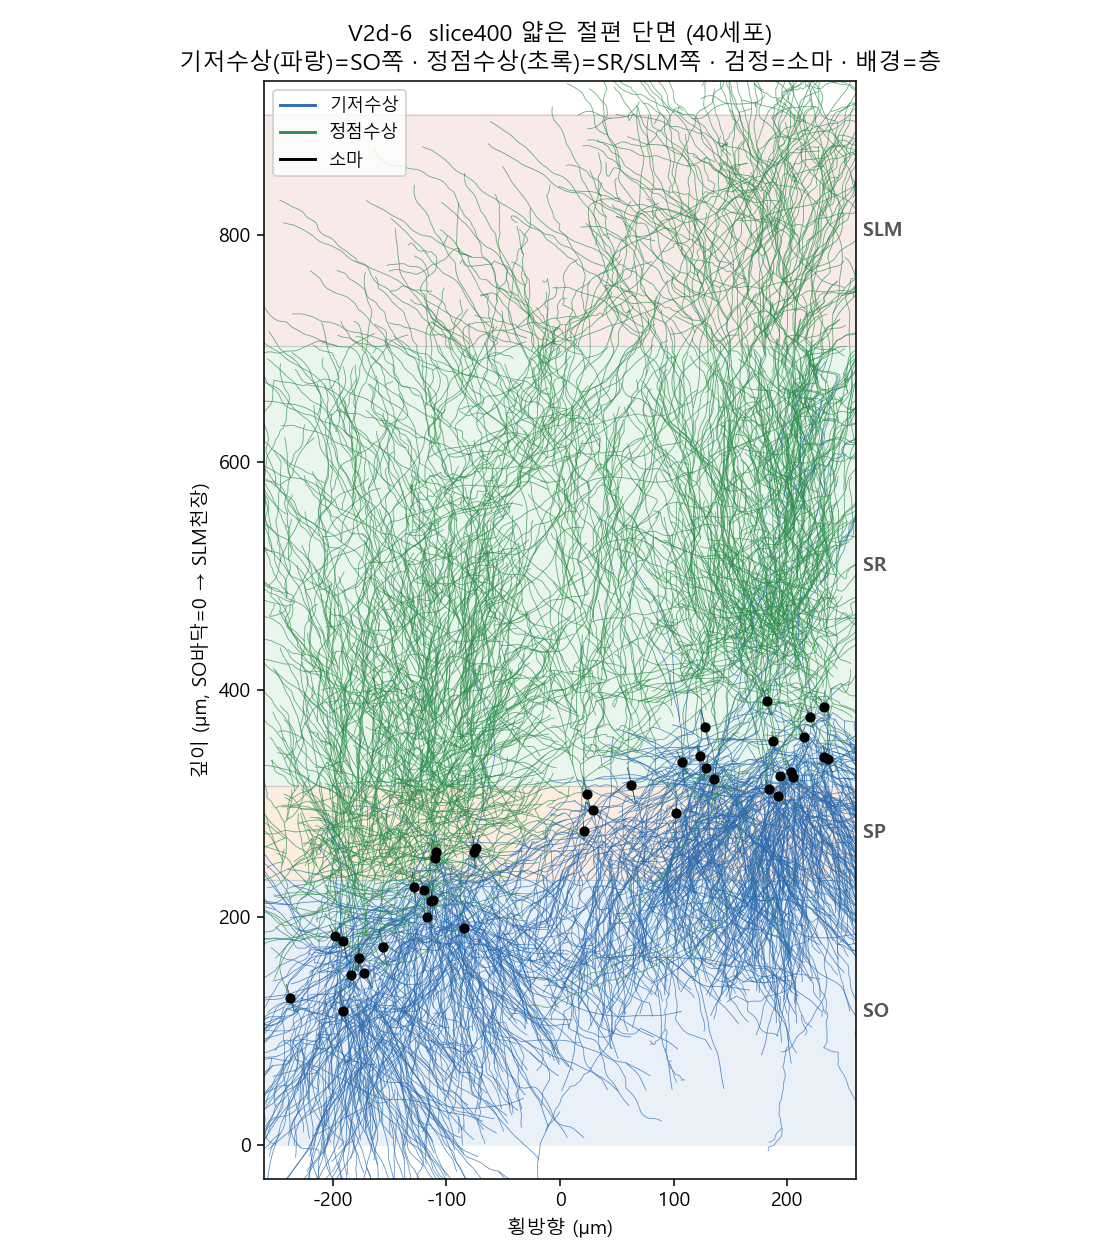
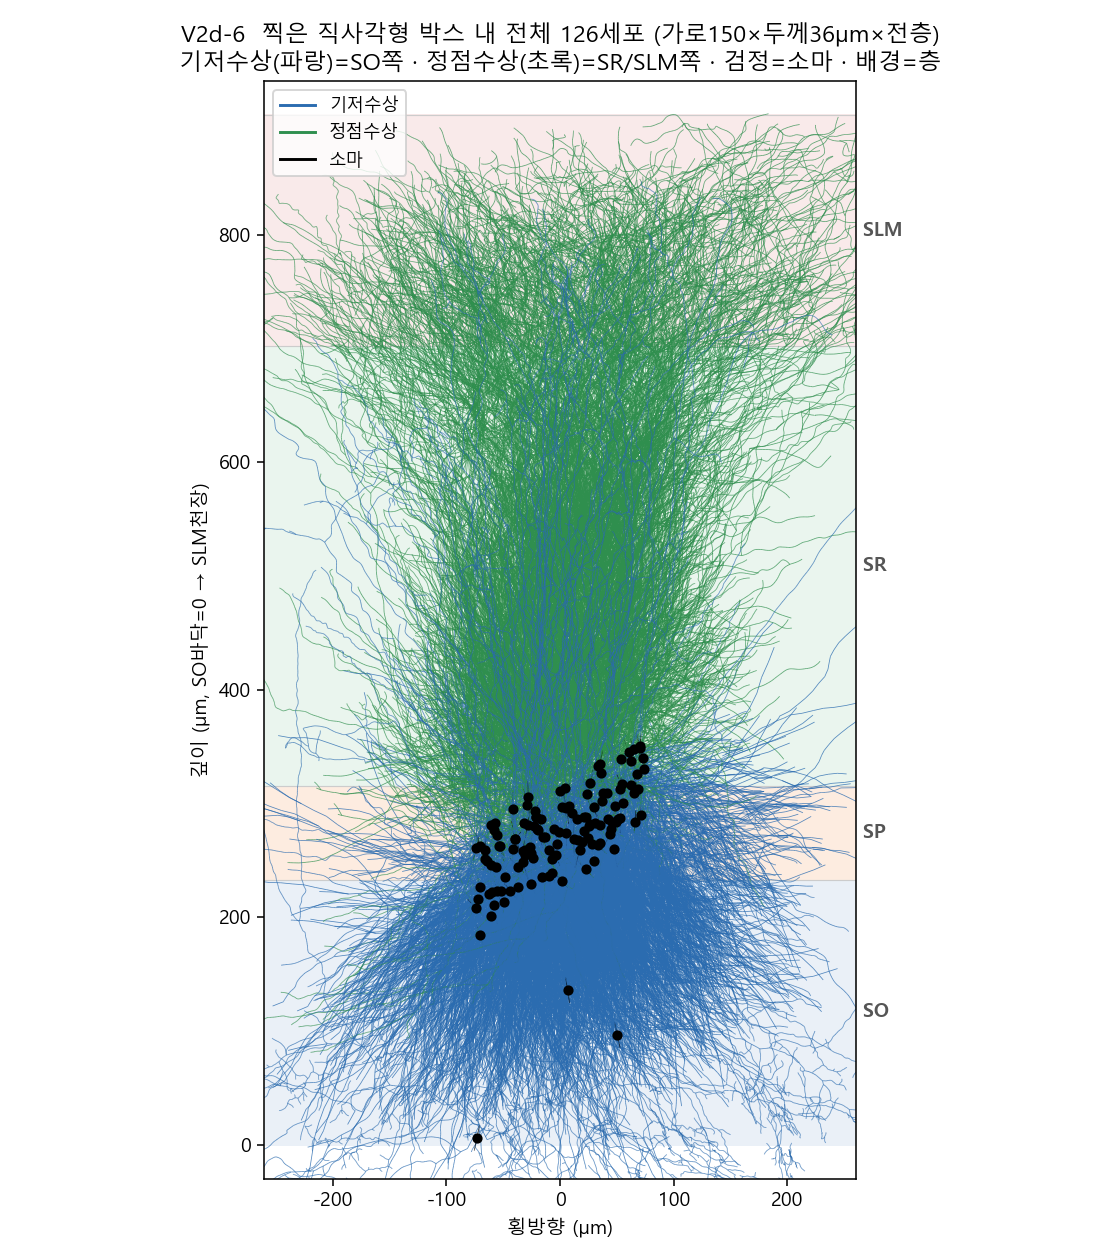
Step 6: fixed rectangular box patch (all cells inside) + location map
- render_slice_patch: pick a fixed 150x36um x full-depth box at slice center,
  render ALL 126 cells inside (not a 40-sample); add V2d_8 location map (top view)

diff --git a/like_slice_CA1/06_orientation/render_slice_patch.py b/like_slice_CA1/06_orientation/render_slice_patch.py
@@ -91,15 +91,26 @@ def main():
     radial, t1, t2 = local_frame(quat[c0])
     nd_c0 = nd[c0]
 
-    # 패치 선택: 가로 |t1|<250, 두께 |t2|<35 (얇은 절편)
+    # 고정 직사각형 박스 (중심 c0): 가로(t1) ±HW, 두께(t2) ±TH, 깊이 전층.
+    # 박스 안 세포는 전부 표시 (랜덤 추출 아님).
+    HW, TH = 75.0, 18.0     # 가로 150µm × 두께 36µm
     rel = xyz - xyz[c0]
     h = rel @ t1; th = rel @ t2
-    inpatch = (np.abs(h) < 250) & (np.abs(th) < 35)
+    inpatch = (np.abs(h) < HW) & (np.abs(th) < TH)
     idx = np.where(inpatch)[0]
-    if len(idx) > 40:
-        idx = idx[rng.choice(len(idx), 40, replace=False)]
-    print(f"[patch] 중심세포 {c0}, 패치 세포 {len(idx)} "
+    print(f"[patch] 박스 중심세포 {c0}, 가로±{HW} 두께±{TH}µm 안 세포 {len(idx)}개 "
           f"(층: {dict(zip(*np.unique(layer[idx], return_counts=True)))})")
+
+    # ---- 위치 지도: 전체 slice400 top-view + 박스 세포 강조 ----
+    fig, axm = plt.subplots(figsize=(8, 6.5))
+    axm.scatter(xyz[:, 0], xyz[:, 2], s=1, c="#dddddd", alpha=0.4, label="slice400 전체")
+    axm.scatter(xyz[idx, 0], xyz[idx, 2], s=14, c="red", label=f"박스 내 {len(idx)}세포")
+    axm.scatter(xyz[c0, 0], xyz[c0, 2], s=60, marker="*", c="k", label="박스 중심")
+    axm.set_aspect("equal"); axm.set_xlabel("x (µm)"); axm.set_ylabel("z (µm)")
+    axm.legend(fontsize=9); axm.set_title("V2d-8  찍은 직사각형 부위 위치 (위에서 본 slice400)")
+    fig.tight_layout()
+    fig.savefig(os.path.join(FIG, "V2d_8_patch_location.png"), dpi=130)
+    plt.close(fig)
 
     # ---- 그림 1: 패치 단면 ----
     fig, ax = plt.subplots(figsize=(8, 9))
@@ -114,7 +125,7 @@ def main():
         draw_cell(ax, w, s, xyz[c0], nd_c0, radial, t1)
     ax.set_xlim(hmin, hmax); ax.set_ylim(-30, T_TOTAL + 30)
     ax.set_xlabel("횡방향 (µm)"); ax.set_ylabel("깊이 (µm, SO바닥=0 → SLM천장)")
-    ax.set_title(f"V2d-6  slice400 얇은 절편 단면 ({len(idx)}세포)\n"
+    ax.set_title(f"V2d-6  찍은 직사각형 박스 내 전체 {len(idx)}세포 (가로150×두께36µm×전층)\n"
                  "기저수상(파랑)=SO쪽 · 정점수상(초록)=SR/SLM쪽 · 검정=소마 · 배경=층")
     from matplotlib.lines import Line2D
     ax.legend(handles=[Line2D([0], [0], color=COMP_COLOR[t], label=COMP_NAME[t])